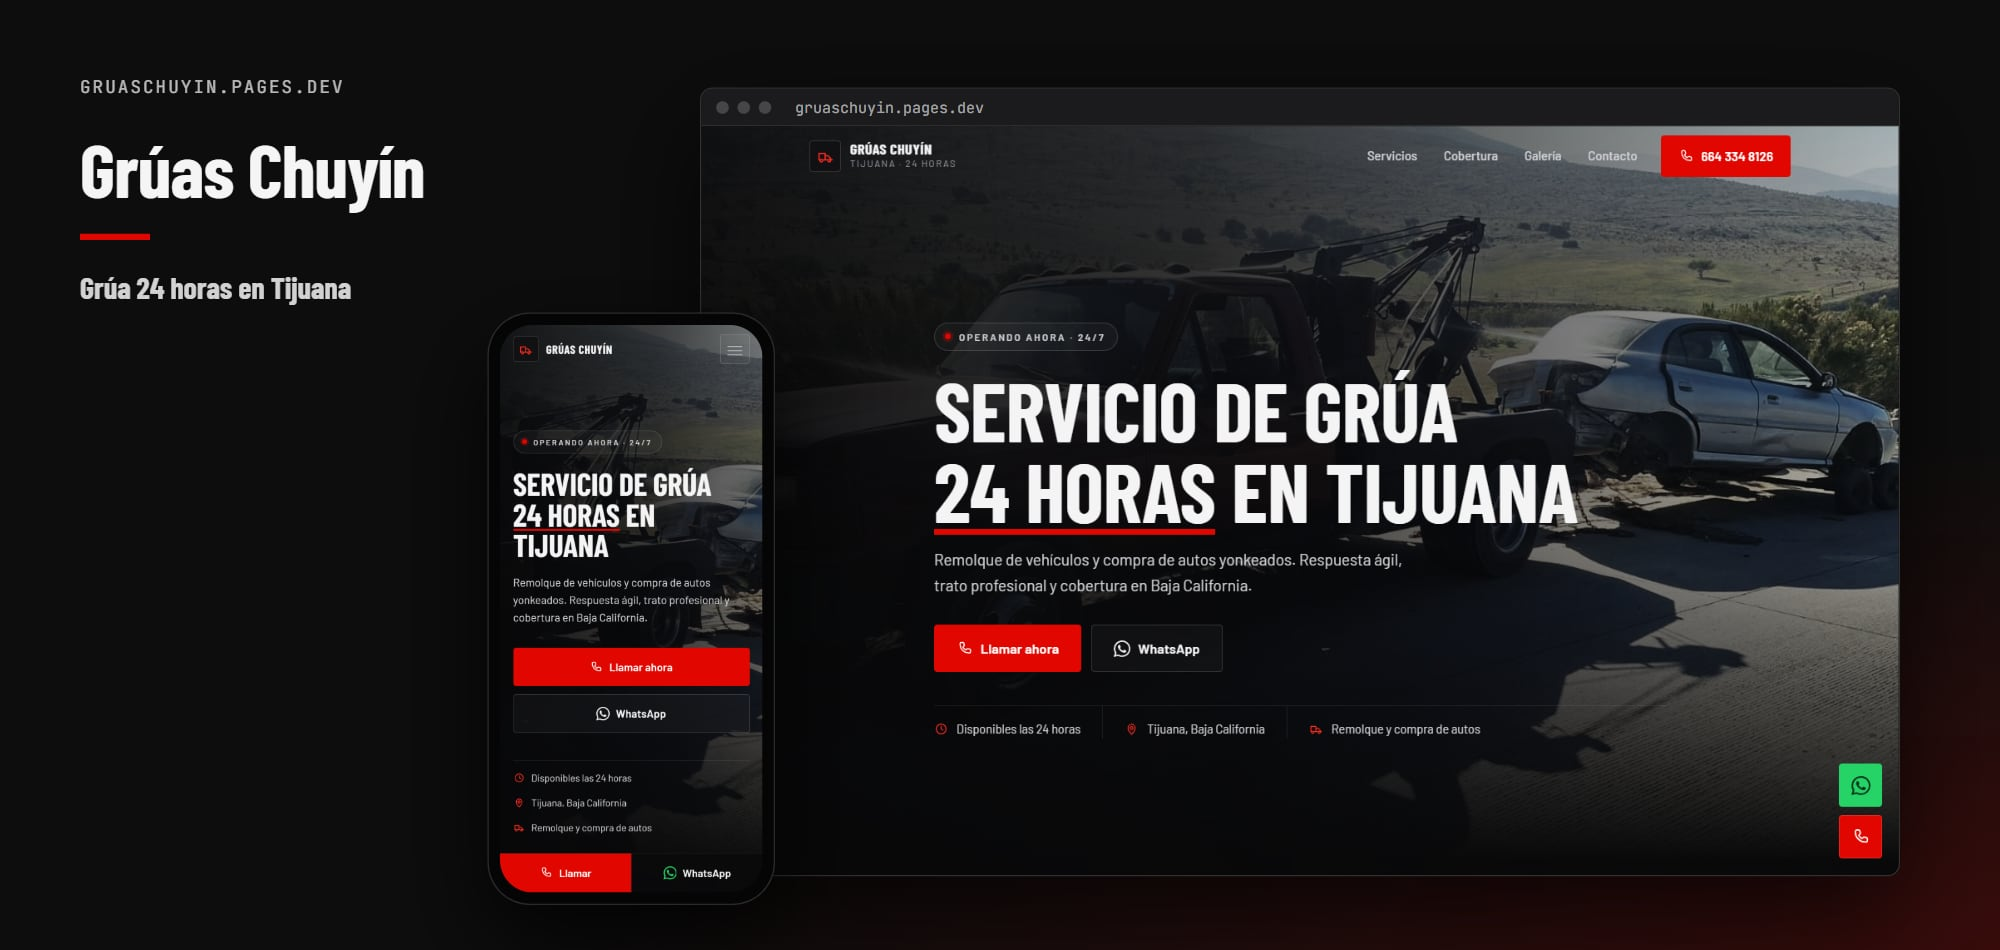
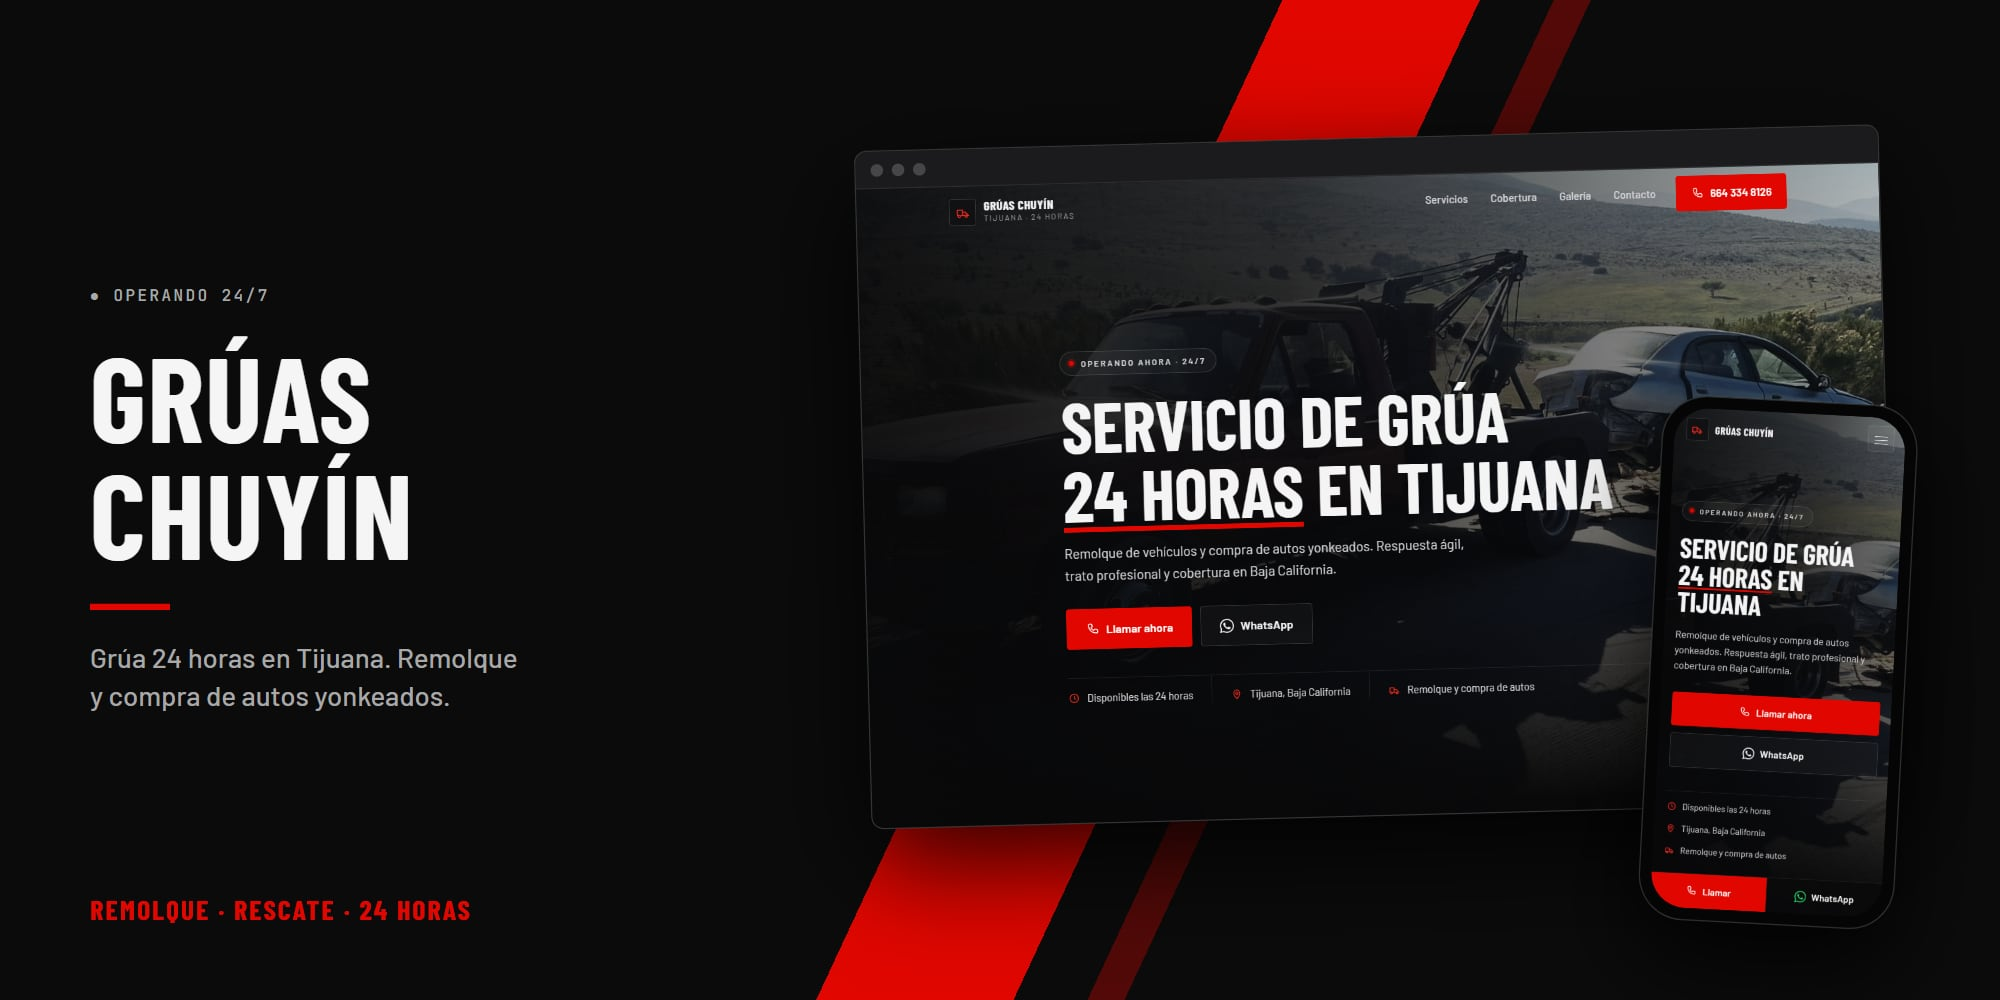
README: portadas por marca, capturas en celular y sin enlaces

diff --git a/README.md b/README.md
@@ -1,5 +1,5 @@
 <p align="center">
-  <img alt="Grúas Chuyín — Grúa 24 horas en Tijuana. Vista del sitio en computadora y celular" src="docs/img/portada.jpg" width="100%">
+  <img alt="Grúas Chuyín: Grúa 24 horas en Tijuana" src="docs/img/portada.jpg" width="100%">
 </p>
 
 <h1 align="center">Grúas Chuyín</h1>
@@ -7,7 +7,6 @@
 <p align="center"><b>Grúa 24 horas en Tijuana</b></p>
 
 <p align="center">
-  <a href="https://gruaschuyin.pages.dev/"><b>Ver el sitio →</b></a><br><br>
   <img alt="HTML5" src="https://img.shields.io/badge/HTML5-e34f26?style=flat-square&logo=html5&logoColor=white">
   <img alt="CSS3" src="https://img.shields.io/badge/CSS3-663399?style=flat-square&logo=css&logoColor=white">
   <img alt="JavaScript" src="https://img.shields.io/badge/JavaScript-b8a200?style=flat-square&logo=javascript&logoColor=white">
@@ -16,9 +15,9 @@
 
 ## Sobre el proyecto
 
-Landing de **Grúas Chuyín**, servicio de grúa 24 horas en Tijuana: remolque de vehículos y compra de autos yonkeados, con llamada y WhatsApp a un toque.
+Landing de **Grúas Chuyín**, servicio de grúa 24 horas en Tijuana: remolque de vehículos y compra de autos yonkeados, con llamada y WhatsApp a un toque desde cualquier parte de la página.
 
-Es un sitio estático: HTML, CSS y JavaScript sin frameworks ni proceso de build.
+Es un sitio estático, hecho con HTML, CSS y JavaScript, sin frameworks ni proceso de build.
 
 ## Secciones
 
@@ -26,24 +25,28 @@ Es un sitio estático: HTML, CSS y JavaScript sin frameworks ni proceso de build
 | --- | --- |
 | **Servicios** | Remolque y compra de autos yonkeados |
 | **Cobertura** | Tijuana y alrededores |
-| **Galería** | Fotos de las unidades |
+| **Galería** | Trabajo real con las unidades de la empresa |
 | **Contacto** | Llamada y WhatsApp |
 
-## Capturas
+## En computadora
 
 <p align="center">
-  <img alt="Grúas Chuyín en computadora" src="docs/img/escritorio.jpg" width="72%">
-  &nbsp;
-  <img alt="Grúas Chuyín en celular" src="docs/img/movil.jpg" width="22%">
+  <img alt="Grúas Chuyín en computadora" src="docs/img/escritorio.jpg" width="100%">
+</p>
+
+## En celular
+
+<p align="center">
+  <img alt="Grúas Chuyín en celular: tres pantallas" src="docs/img/celular.jpg" width="100%">
 </p>
 
 ## Tecnologías
 
-- HTML5, CSS3 y JavaScript, sin frameworks ni proceso de build.
-- Tipografía de Google Fonts (Barlow y Barlow Condensed).
+- HTML5, CSS3 y JavaScript.
 - Diseño adaptable a celular, tableta y computadora.
-- Íconos con un sprite SVG en línea (sin librerías de íconos). Ver [`CLAUDE.md`](CLAUDE.md) para las reglas de rendimiento y diseño.
-- Publicado en **Cloudflare Pages**.
+- Íconos con un sprite SVG en línea, sin librerías externas (ver `CLAUDE.md`).
+- Tipografías de Google Fonts: Barlow y Barlow Condensed.
+- Publicado en Cloudflare Pages.
 
 ## Estructura
 
@@ -55,25 +58,15 @@ GruasChuyin/
 ├── 4.jpeg
 ├── 5.jpeg
 ├── 6.jpeg
-├── CLAUDE.md                   # Guía del proyecto
-├── docs/                       # Imágenes de este README
+├── CLAUDE.md               # Guía del proyecto
+├── docs/                   # Imágenes de este README
 ├── favicon.svg
-├── index.html                  # Página principal
+├── index.html              # Página principal
 ├── Info.jpeg
-├── script.js                   # Interacciones (menú, animaciones)
-└── styles.css                  # Estilos
+├── script.js               # Interacciones y animaciones
+└── styles.css              # Estilos
 ```
-
-## Correr en local
-
-No necesita instalar nada. Abre `index.html` en el navegador, o sírvelo desde la carpeta del repo:
-
-```bash
-python -m http.server 8000
-```
-
-y entra a <http://localhost:8000>.
 
 ## Créditos
 
-Desarrollado por [@Salereee](https://github.com/Salereee). Logotipos, fotografías y textos del negocio pertenecen a Grúas Chuyín.
+Desarrollado por Salereee. Logotipos, fotografías y textos del negocio pertenecen a Grúas Chuyín.
